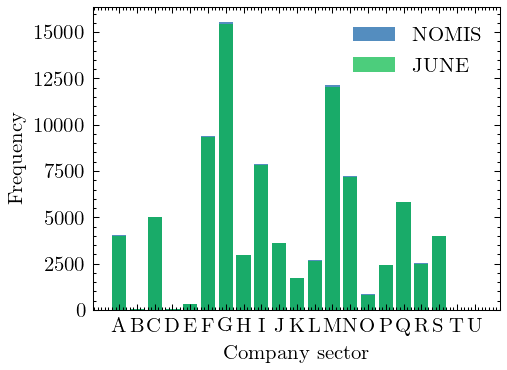
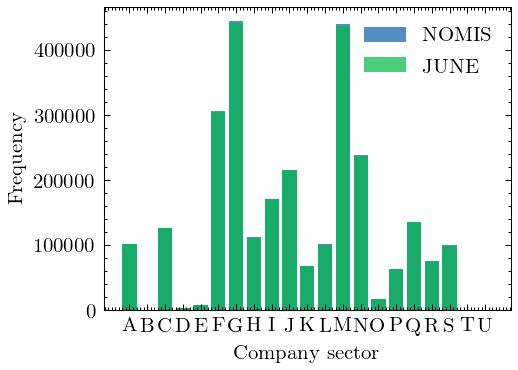
made plots for whole england

diff --git a/plots/scripts/master_plotter.py b/plots/scripts/master_plotter.py
@@ -47,15 +47,15 @@ class Plotter:
         print ("Loading household data")
         household_plots.load_household_data()
 
-        #print ("Plotting household sizes")
-        #household_sizes_plot = household_plots.plot_household_sizes()
-        #household_sizes_plot.plot()
-        #plt.savefig(save_dir / 'household_sizes.png', dpi=150, bbox_inches='tight')
+        print ("Plotting household sizes")
+        household_sizes_plot = household_plots.plot_household_sizes()
+        household_sizes_plot.plot()
+        plt.savefig(save_dir / 'household_sizes.png', dpi=150, bbox_inches='tight')
 
-        #print ("Plotting household probability matrix")
-        #household_probability_matrix = household_plots.plot_household_probability_matrix()
-        #household_probability_matrix.plot()
-        #plt.savefig(save_dir / 'household_prob_matrix.png', dpi=150, bbox_inches='tight')
+        print ("Plotting household probability matrix")
+        household_probability_matrix = household_plots.plot_household_probability_matrix()
+        household_probability_matrix.plot()
+        plt.savefig(save_dir / 'household_prob_matrix.png', dpi=150, bbox_inches='tight')
 
         print ("Plotting household age differences")
         f, ax = household_plots.plot_household_age_differences()
